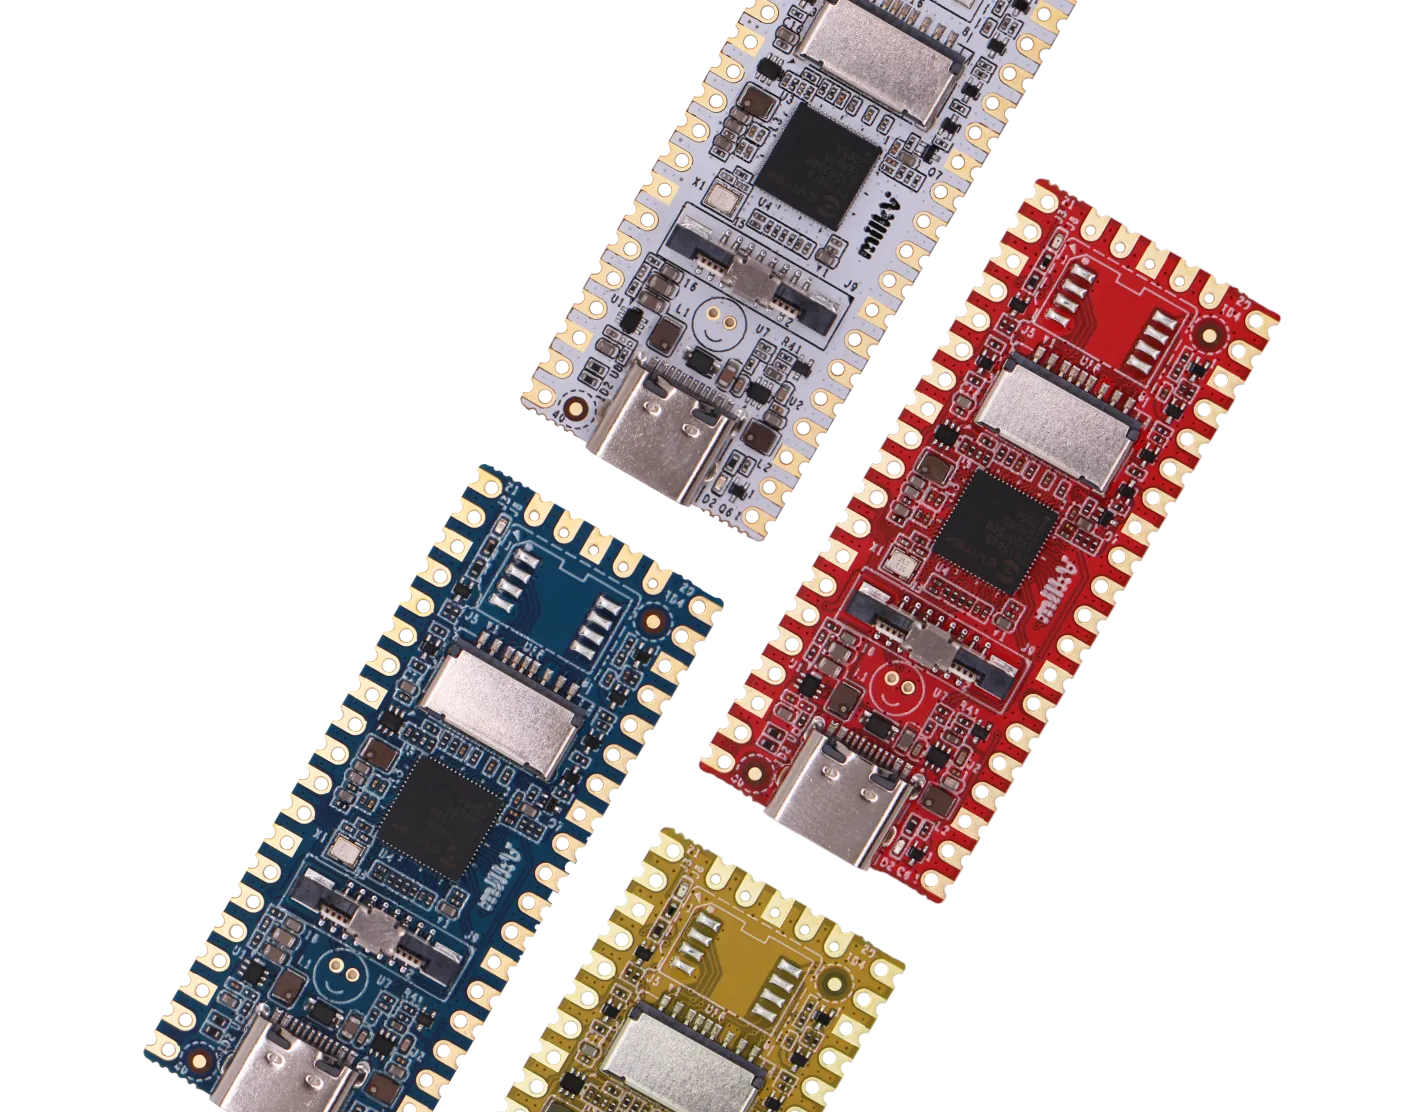
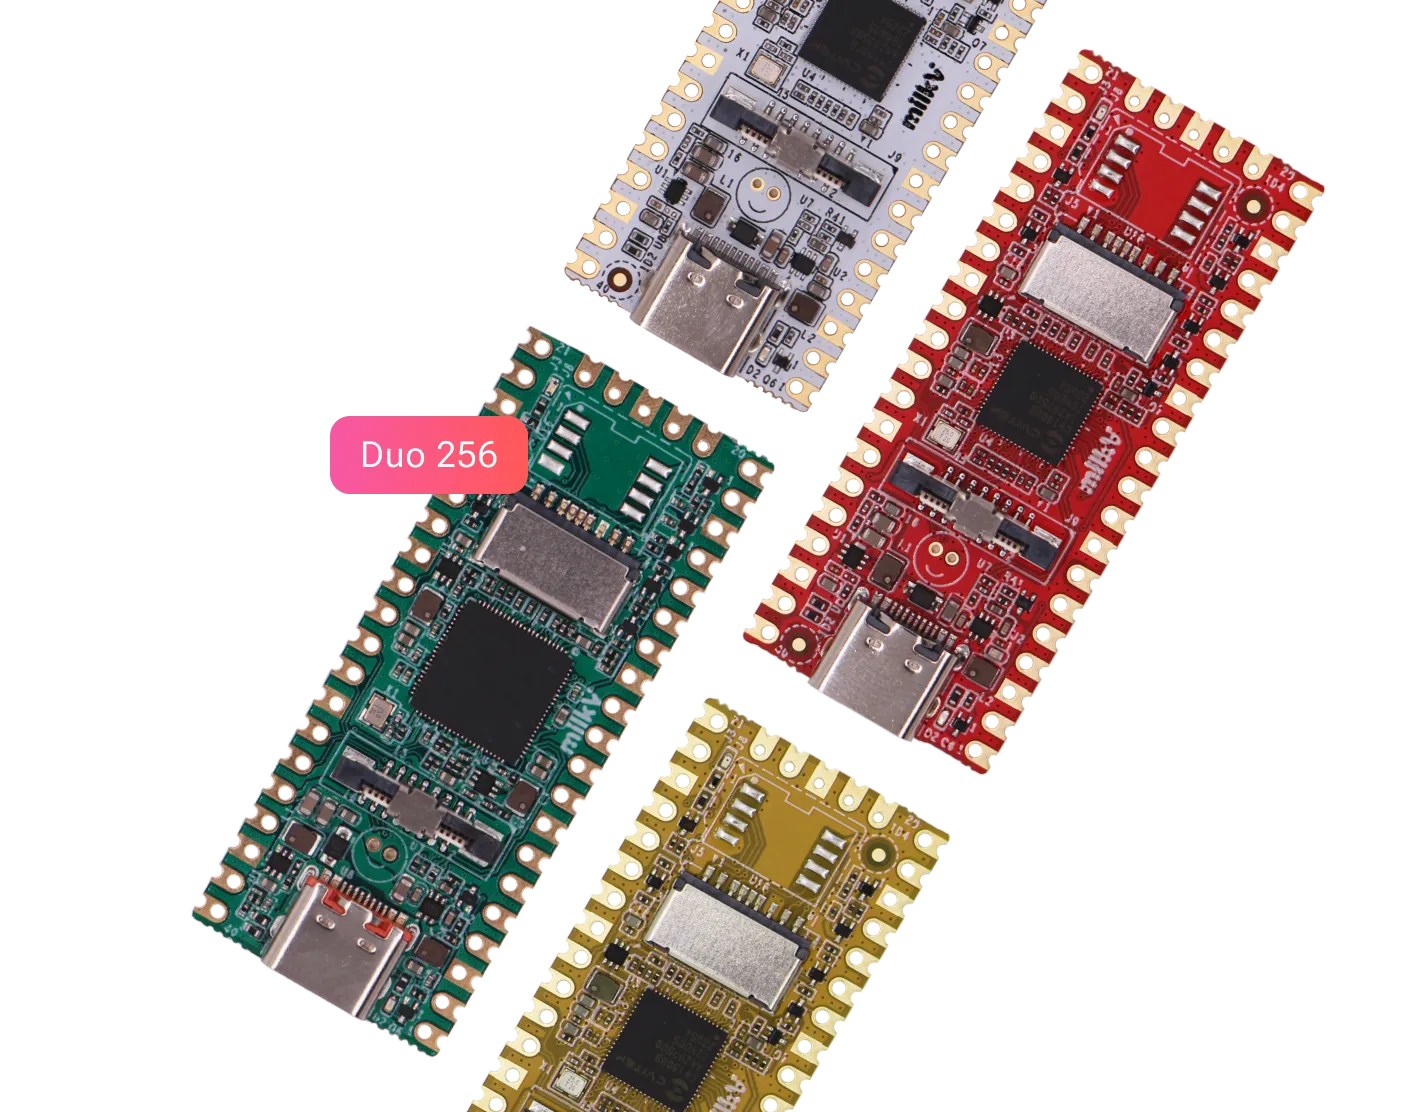
Update homepage DUO module

diff --git a/src/pages/index.module.css b/src/pages/index.module.css
@@ -316,6 +316,40 @@
     margin-bottom: 0;
 }
 
+.vis_link {
+    display: flex;
+    align-items: center;
+    justify-content: center;
+    color: #818181;
+    font-weight: lighter;
+}
+
+.vis_link>a {
+    border-radius: 10px;
+    border: 1px solid #000;
+    display: flex;
+    justify-content: center;
+    align-items: center;
+    gap: 10px;
+    color: #000;
+    text-align: center;
+    font-family: Roboto Flex;
+    font-style: normal;
+    font-weight: 400;
+    /* 177.778% */
+    letter-spacing: 0.48px;
+    white-space: nowrap;
+}
+
+.left_title>h3 {
+    color: #000;
+    text-align: center;
+    font-family: Roboto Flex;
+    font-style: normal;
+    font-weight: 400;
+}
+
+
 @media screen and (min-width: 1950px) {
     .header_title {
         width: 1920px;
@@ -431,6 +465,30 @@
         font-size: 24px;
         margin-bottom: 0;
     }
+
+    .vis_link {
+        margin: 0px 0 40px;
+        font-size: 32px;
+    }
+
+    .vis_link>a {
+        width: 99px;
+        height: 30px;
+        padding: 10px;
+        font-size: 18px;
+        margin: 10px 10px 0;
+    }
+
+    .left_title>h3 {
+        margin-top: -10px;
+        margin-bottom: 5px;
+        font-size: 18px;
+    }
+
+    .left_title>.duo_info_p {
+        margin-bottom: 20px;
+    }
+
 }
 
 @media screen and (max-width: 1950px) and (min-width: 1450px) {
@@ -553,6 +611,29 @@
     .button_use>a {
         margin-right: 50px;
     }
+
+    .vis_link {
+        margin: 0px 0 20px;
+        font-size: 24px;
+    }
+
+    .vis_link>a {
+        width: 90px;
+        height: 30px;
+        padding: 10px;
+        font-size: 16px;
+        margin: 5px 10px 0;
+    }
+
+    .left_title>h3 {
+        margin-top: -10px;
+        margin-bottom: 5px;
+        font-size: 18px;
+    }
+
+    .left_title>.duo_info_p {
+        margin-bottom: 20px;
+    }
 }
 
 @media screen and (max-width: 1450px) and (min-width: 1000px) {
@@ -672,6 +753,28 @@
     .docs_info>p {
         font-size: 16px;
         margin-bottom: 0;
+    }
+
+    .vis_link {
+        margin: 0px 0 20px;
+        font-size: 20px;
+    }
+
+    .vis_link>a {
+        width: 80px;
+        height: 25px;
+        font-size: 16px;
+        margin: 5px 10px 0;
+    }
+
+    .left_title>h3 {
+        margin-top: -10px;
+        margin-bottom: 5px;
+        font-size: 16px;
+    }
+
+    .left_title>.duo_info_p {
+        margin-bottom: 0px !important;
     }
 }
 
@@ -794,6 +897,28 @@
     .docs_info>p {
         font-size: 14px;
         margin-bottom: 0;
+    }
+
+    .vis_link {
+        margin: 0px 0 5px;
+        font-size: 20px;
+    }
+
+    .vis_link>a {
+        width: 80px;
+        height: 25px;
+        font-size: 14px;
+        margin: 5px 10px 0;
+    }
+
+    .left_title>h3 {
+        margin-top: -10px;
+        margin-bottom: 0px;
+        font-size: 14px;
+    }
+
+    .left_title>.duo_info_p {
+        margin-bottom: 5px !important;
     }
 }
 
@@ -950,5 +1075,27 @@
 
     .view_mian>div {
         width: 100%;
+    }
+
+    .vis_link {
+        margin: 0rem 0 5rem;
+        font-size: 20rem;
+    }
+
+    .vis_link>a {
+        width: 80rem;
+        height: 25rem;
+        font-size: 12rem;
+        margin: 5rem 10rem 0;
+    }
+
+    .left_title>h3 {
+        margin-top: -10rem;
+        margin-bottom: 0rem;
+        font-size: 12rem;
+    }
+
+    .left_title>.duo_info_p {
+        margin-bottom: 5rem !important;
     }
 }

diff --git a/src/pages/index.js b/src/pages/index.js
@@ -23,7 +23,13 @@ const Duo_module = (props) => {
         <div className={styles.main_module}>
           <div className={styles.left_title}>
             <h2>Milk-V Duo</h2>
-            <p><Translate id='homepage.corporations.duo' /></p>
+            <h3>Now Duo</h3>
+            <div className={styles.vis_link}>
+              <Link>Duo 64</Link>
+              |
+              <Link>Duo 256</Link>
+            </div>
+            <p className={styles.duo_info_p}><Translate id='homepage.corporations.duo' /></p>
             <div className={styles.learnMore_use}>
               <Link href='/duo'><Translate id='homepage.corporations.duolearnmore' /></Link>
               <div className={styles.buy_button} onClick={() => { setDuo(true) }}><Translate id='homepage.corporations.duobuynow' /></div>
@@ -193,7 +199,7 @@ const Home_web = () => {
   useEffect(() => {
     const timer = setInterval(() => {
       if (!isPaused && window.innerWidth > 750) {
-        setIndex(prevCount => (prevCount === 5 ? 1 : prevCount + 1));
+        // setIndex(prevCount => (prevCount === 5 ? 1 : prevCount + 1));
       }
     }, 3000);
 
